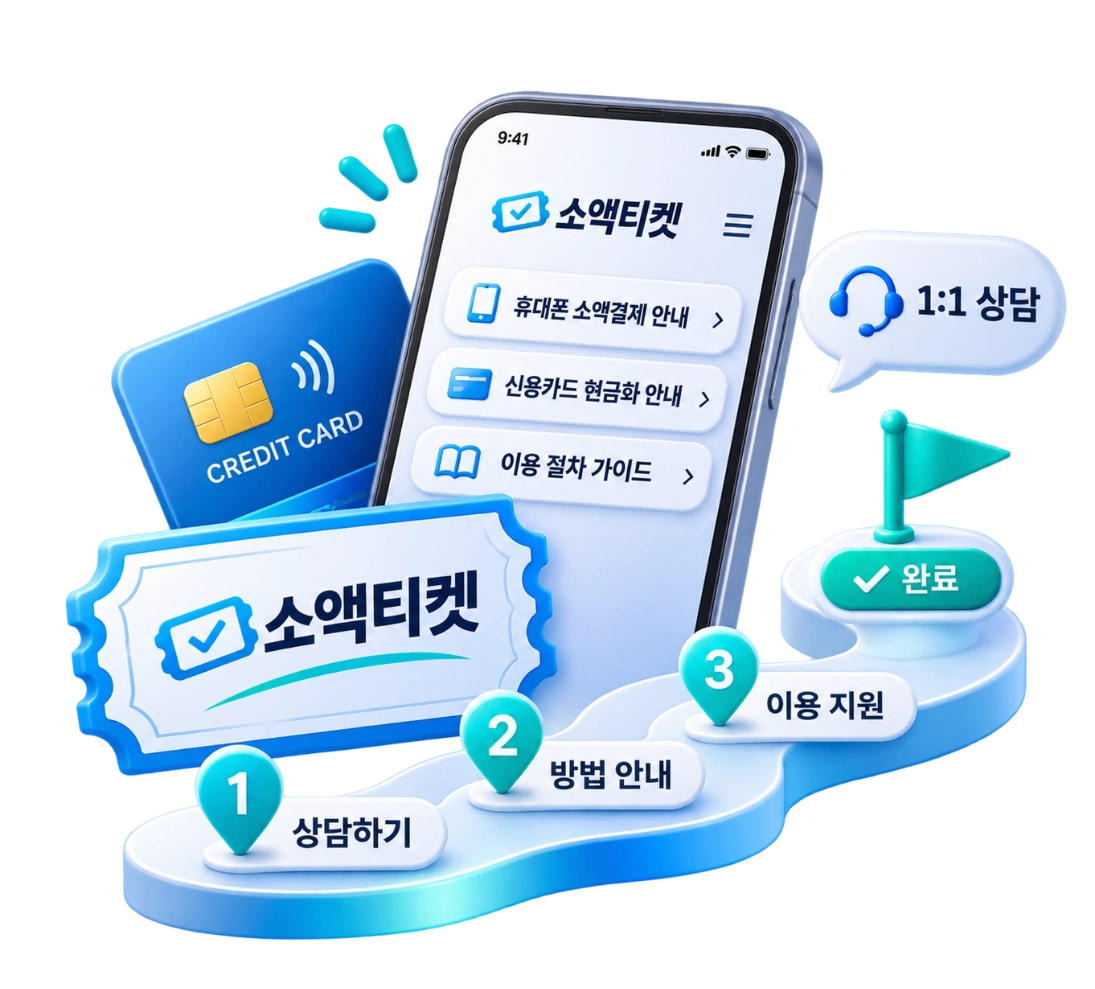
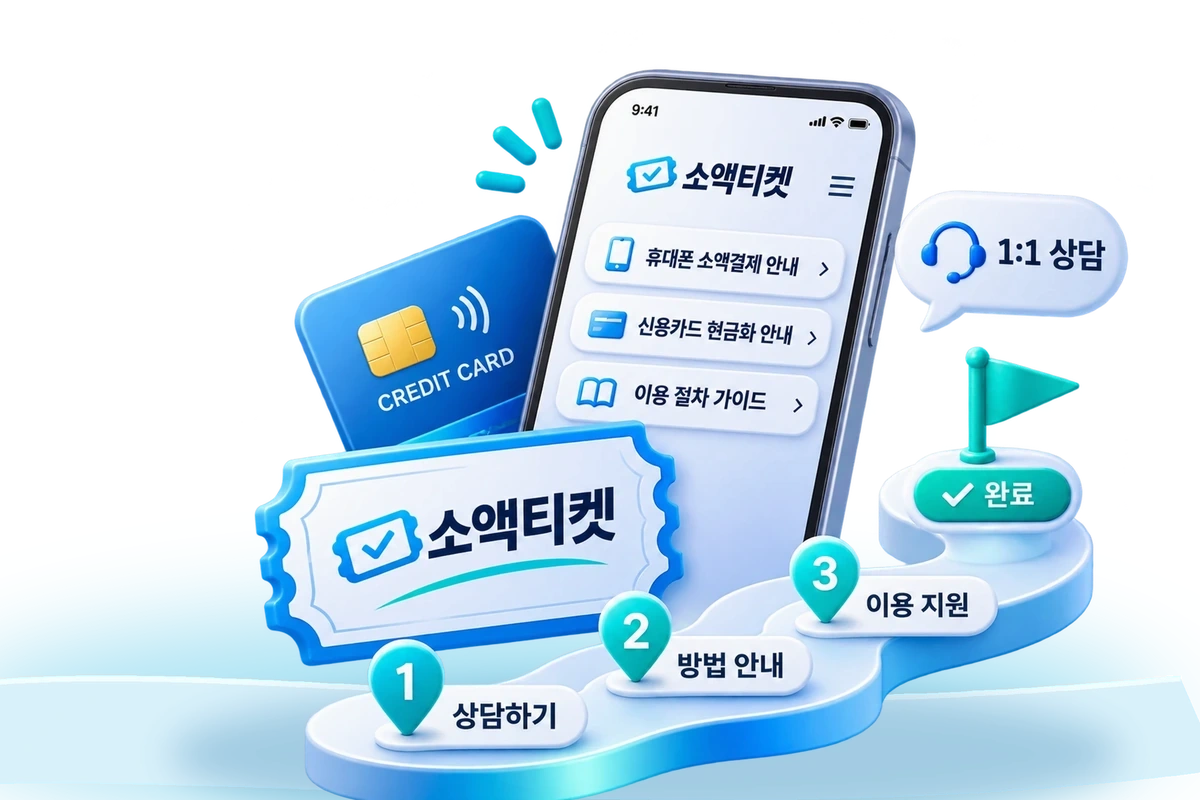
Apply wide V10 artwork to first slide

diff --git a/public/assets/site.css b/public/assets/site.css
@@ -138,7 +138,7 @@
 @media(max-width:700px){html{scroll-padding-top:70px}.page-hero .wrap{min-height:0;display:block;padding-top:44px;padding-bottom:26px}.page-hero h1{font-size:36px;margin:17px 0}.page-hero p{font-size:13px}.hero-piece{width:170px;margin:0 auto;height:160px;aspect-ratio:unset}.hero-piece .ticket-shape{font-size:37px}.sub-section{padding:49px 0}.sub-heading{font-size:27px;margin:15px 0 20px}.sub-paragraph{font-size:14px;line-height:1.85}.sub-card-grid{grid-template-columns:1fr;margin-top:24px;gap:12px}.sub-card{min-height:0;padding:23px}.sub-callout{padding:18px;font-size:13px}.contact-info-panel{padding:24px;display:block}.contact-info-panel h3{font-size:18px}.contact-info-panel .soft-link{margin-top:12px;white-space:normal}.related-links{gap:8px}.related-links a{padding:10px}.page-related{padding:47px 0}.faqs-list summary{font-size:14px;padding-right:25px}.faqs-list details p{margin-left:0}.breadcrumb{font-size:11px}.footer-links{margin-top:20px;gap:12px}.detail-table{font-size:13px}}
 @media(prefers-reduced-motion:reduce){.hero-slide{transition:none}}
 
-/* First slide: compact V8 layout */
+/* First slide: V10 artwork over the compact layout */
 .hero-slide-original{background:radial-gradient(ellipse at 80% 57%,rgba(141,202,245,.20),transparent 50%),linear-gradient(110deg,#fff 6%,#fafdff 45%,#dcefff 100%)}
 .hero-slide-original::before{display:none}
 .hero-slide-original .hero-over-pill{display:inline-block;background:linear-gradient(95deg,#d8edff,#d1f5f5);border-radius:999px;color:#102f68;letter-spacing:0;font-weight:790;line-height:1.25;}
@@ -157,7 +157,16 @@
 .hero-slide-original .hero-intro-trust strong{display:block;font-size:13px;line-height:1.25}
 .hero-slide-original .hero-intro-trust small{display:block;margin-top:5px;font-size:10px;color:#6a7b8e;white-space:nowrap}
 .hero-slide-original .hero-trust-icon{flex:0 0 39px;height:39px;background:#eaf8fc;border-radius:12px;color:#098dbe;display:grid;place-items:center;font-size:20px}
+.hero-slide-original .hero-intro-art {
+  position: absolute; z-index: 1; bottom: 0; right: -26px;
+  width: min(60vw, 645px);
+  mask-image: linear-gradient(90deg, transparent, #000 5%, #000 96%, transparent);
+}
+.hero-slide-original .hero-intro-art img { display: block; width: 100%; height: auto; }
 @media (min-width: 701px) {
+  .hero:has(.hero-slide-original.on) .hero-controls {
+    left: calc(50% - min(28.5vw, 290px));
+  }
   .hero-slide-original .hero-inner {
     display: grid; grid-template-columns: 53% 47%; align-items: center;
     width: min(1140px, calc(100% - 56px));
@@ -191,17 +200,9 @@
   .hero-slide-original .hero-intro-trust>span+span {
     padding-left: 10px;
   }
-  .hero-slide-original .hero-intro-art {
-    position: relative; top: auto; right: auto;
-    transform: none; width: min(100%, 400px);
-    height: auto; aspect-ratio: auto; overflow: visible;
-    margin: 0 0 38px; justify-self: center;
-  }
-  .hero-slide-original .hero-intro-art img {
-    position: static; display: block;
-    width: 100%; max-width: 100%; height: auto;
-    object-fit: contain;
-  }
+}
+@media (min-width: 701px) and (max-width: 1050px) {
+  .hero-slide-original .hero-intro-art { width: min(61vw, 600px); right: -24px; }
 }
 @media (max-width: 700px) {
   .hero-slide-original .hero-inner {
@@ -246,22 +247,16 @@
     border-radius: 6px;
   }
   .hero-slide-original .hero-intro-art {
-    position: absolute; left: 50%; bottom: 52px;
-    top: auto; right: auto; margin: 0;
-    transform: translateX(-50%);
-    width: min(74%, 255px); height: auto;
-    aspect-ratio: auto; overflow: visible;
+    left: 50%; right: auto; bottom: 52px;
+    transform: translateX(-50%); width: min(100vw, 440px);
   }
-  .hero-slide-original .hero-intro-art img {
-    position: static; width: 100%; max-width: 100%; height: auto;
-    object-fit: contain;
-  }
-  .hero:has(.hero-slide-original.on) .hero-index { bottom: 20px; }
 }
 @media (max-width: 360px) {
   .hero-slide-original .hero-copy .hero-reference-title { font-size: 26px; }
-  .hero-slide-original .hero-intro-art { width: 220px; bottom: 48px; }
   .hero-slide-original .hero-intro-trust small { font-size: 8px; }
+  .hero:has(.hero-slide-original.on) .hero-controls,
+  .hero:has(.hero-slide-original.on) .hero-dots { gap: 4px; }
+  .hero:has(.hero-slide-original.on) .hero-dots button:not([aria-current="true"]) { width: 24px; }
 }
 @media(max-width:700px){.hero:has(.hero-slide-original.on) .hero-index{bottom:4px}}
 @media(prefers-reduced-motion:reduce){.hero-slide-original .hero-cta{transition:none}}

diff --git a/public/index.html b/public/index.html
@@ -17,7 +17,7 @@
       </div>
     </div>
     <div class="hero-intro-art">
-      <img src="assets/soaekticket-hero-01.webp" alt="소액티켓 휴대폰, 카드, 상품권과 3단계 이용 흐름을 표현한 3D 일러스트" width="1095" height="989">
+      <img src="assets/soaekticket-hero-01.webp" alt="소액티켓 휴대폰, 카드, 상품권과 3단계 이용 흐름을 표현한 3D 일러스트" width="1200" height="800">
     </div>
   </div>
 </div>
